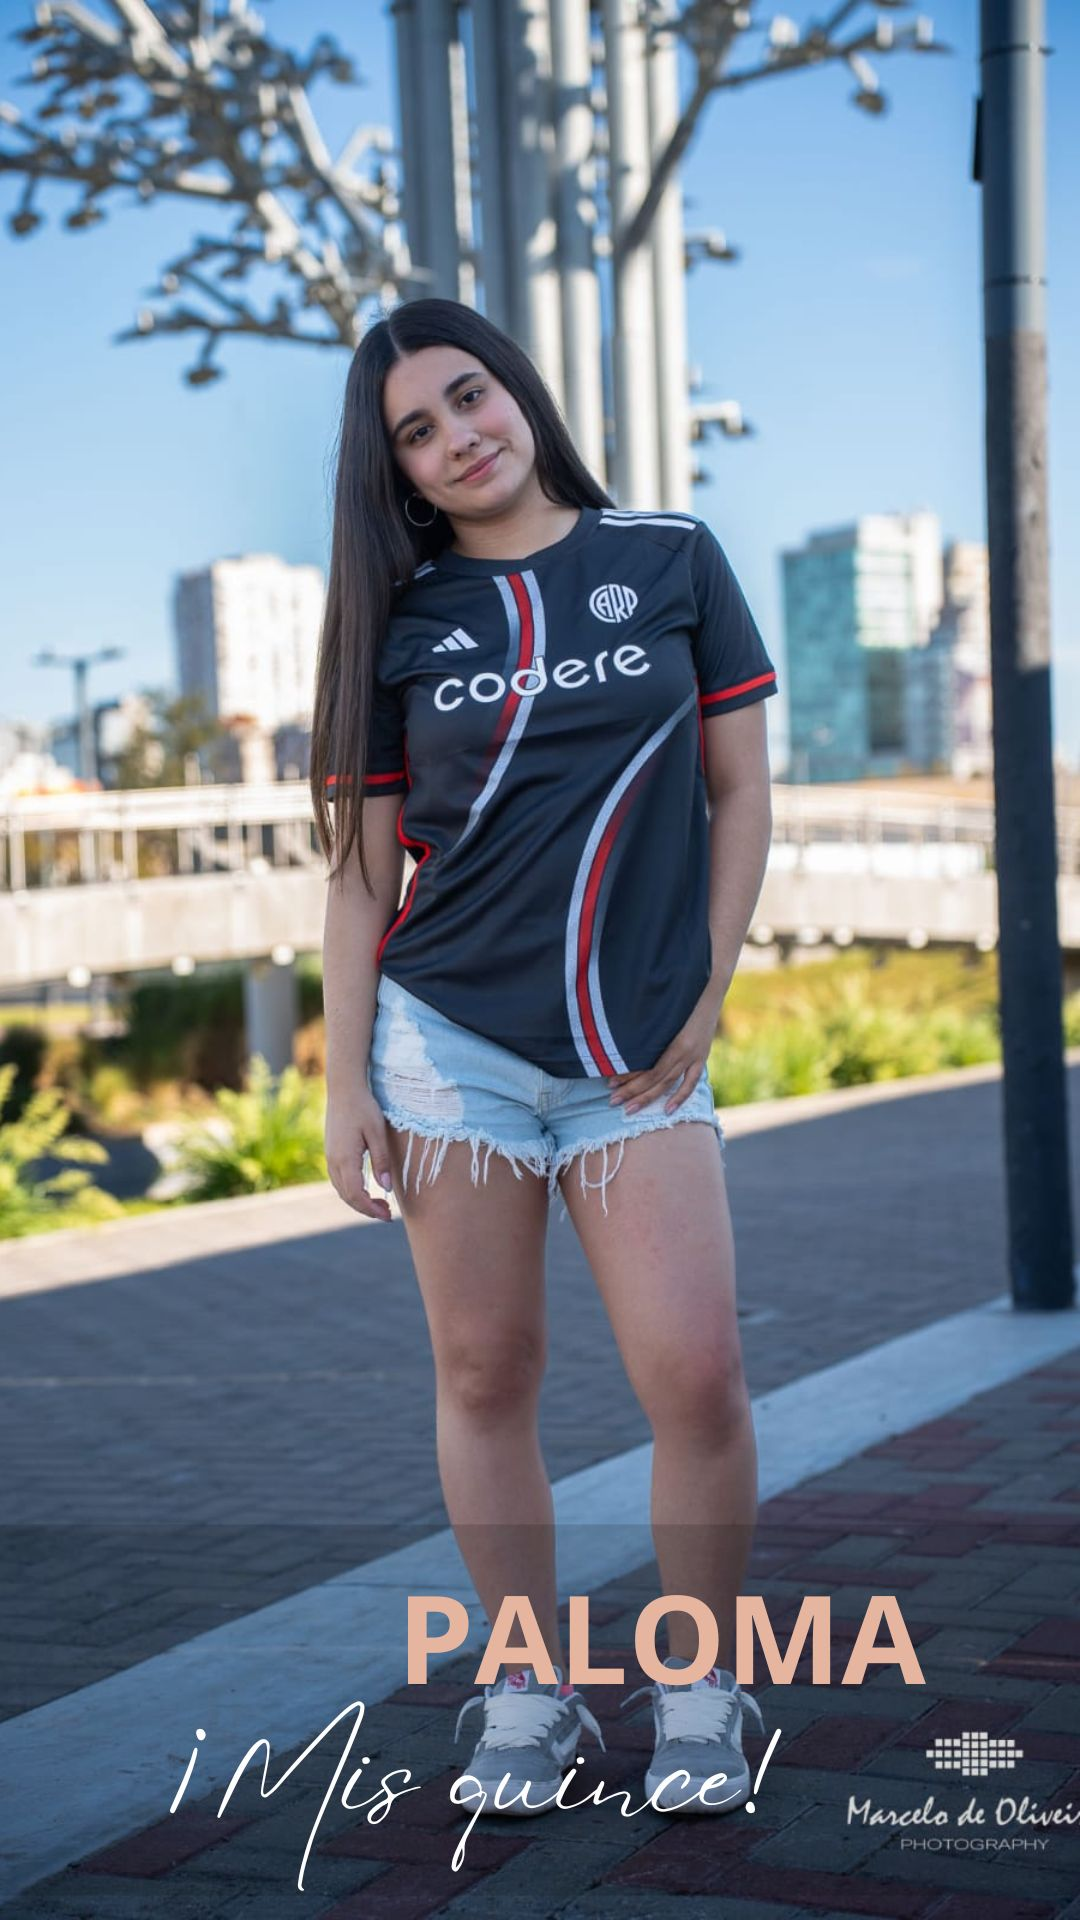
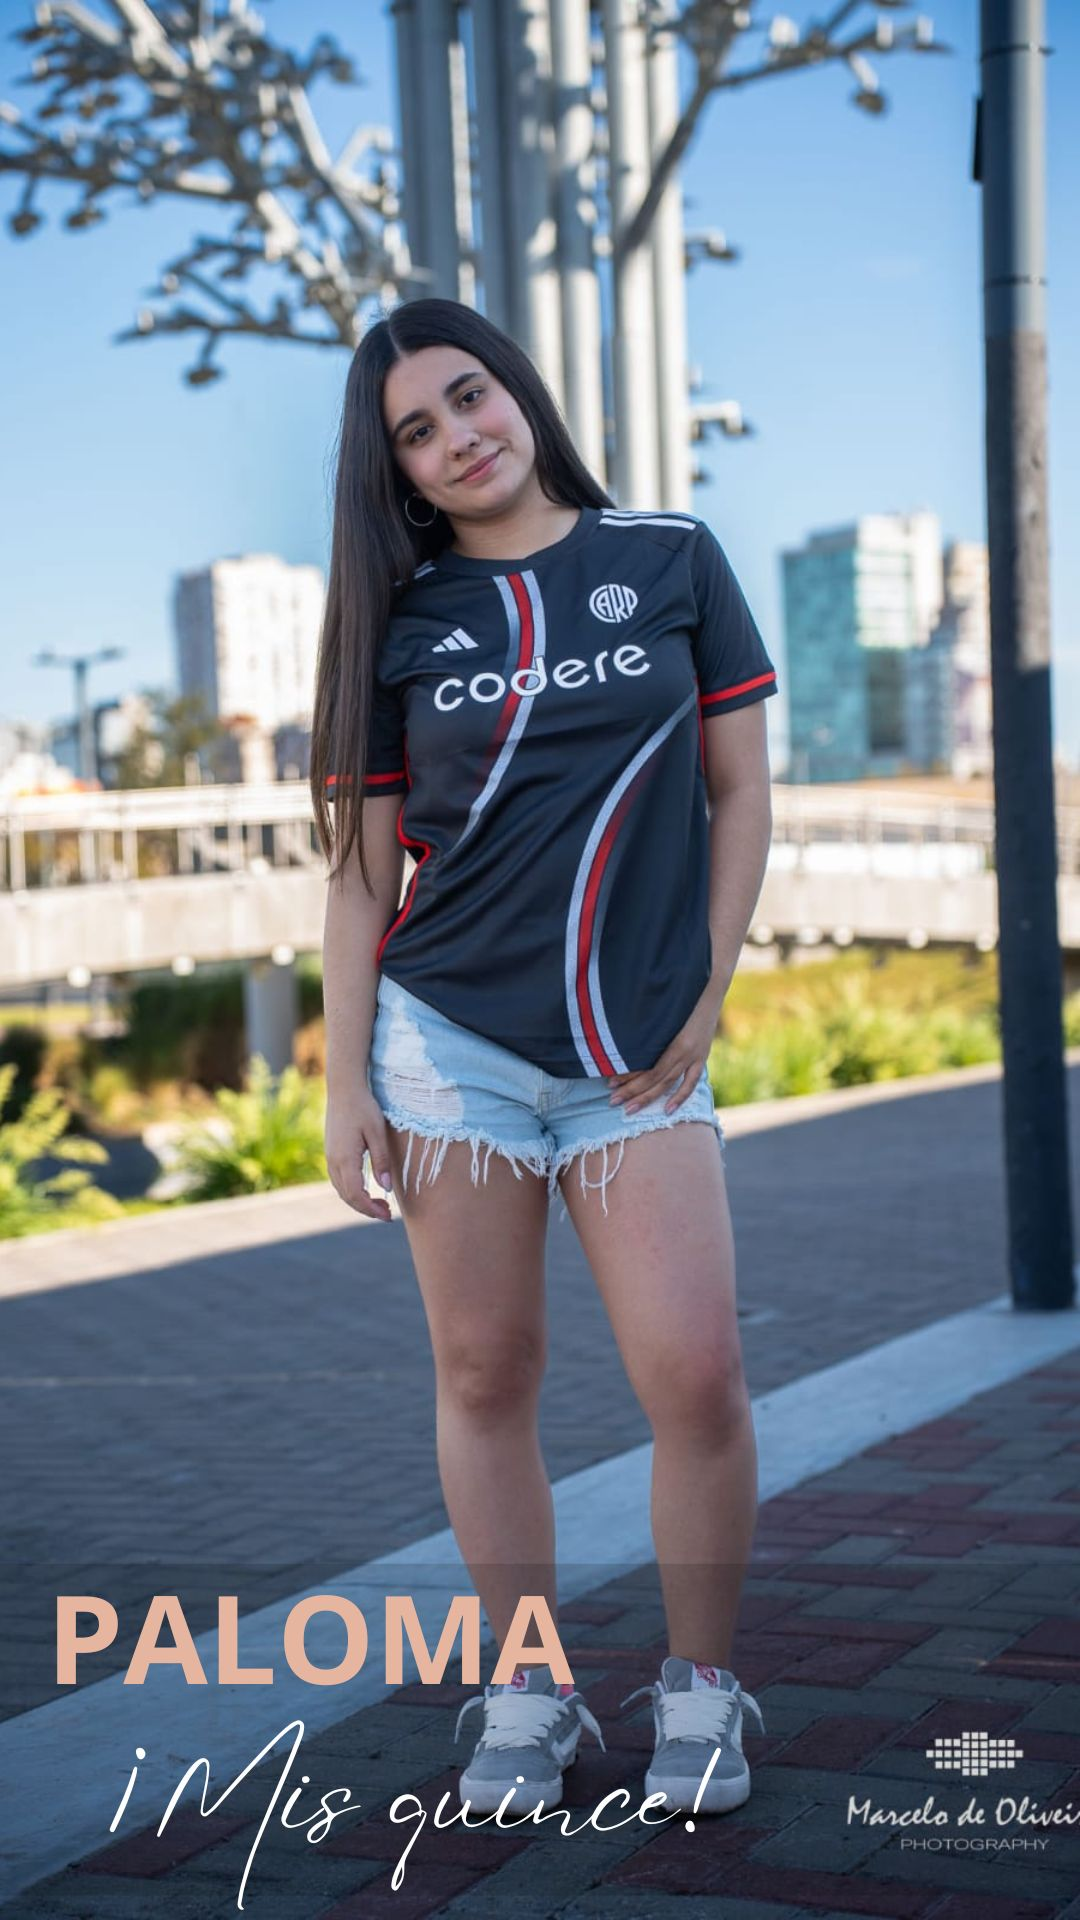
tres

diff --git a/index.html b/index.html
@@ -20,7 +20,7 @@
 <link href="https://fonts.googleapis.com/css2?family=Amatic+SC:wght@400;700&family=Bad+Script&family=Bebas+Neue&family=Covered+By+Your+Grace&family=EB+Garamond&family=Great+Vibes&family=Handlee&family=Inconsolata&family=Julius+Sans+One&family=Lobster+Two&family=Major+Mono+Display&family=PT+Sans+Narrow&family=PT+Serif&family=Passions+Conflict&family=Patrick+Hand&family=Playfair+Display&family=Pompiere&family=Rancho&family=Roboto+Condensed:wght@300&family=Sacramento&family=Satisfy&family=Sofia+Sans+Extra+Condensed:wght@100&display=swap" rel="stylesheet">
 <link href="https://fonts.googleapis.com/css2?family=Alex+Brush&family=Amatic+SC:wght@400;700&family=Bad+Script&family=Bebas+Neue&family=Covered+By+Your+Grace&family=EB+Garamond&family=Great+Vibes&family=Handlee&family=Inconsolata&family=Julius+Sans+One&family=Lobster+Two&family=Major+Mono+Display&family=PT+Sans+Narrow&family=PT+Serif&family=Passions+Conflict&family=Patrick+Hand&family=Playfair+Display&family=Pompiere&family=Rancho&family=Roboto+Condensed:wght@300&family=Sacramento&family=Satisfy&family=Sofia+Sans+Extra+Condensed:wght@100&display=swap" rel="stylesheet">
 <link href="https://cdn.jsdelivr.net/npm/bootstrap@5.3.0/dist/css/bootstrap.min.css" rel="stylesheet" integrity="sha384-9ndCyUaIbzAi2FUVXJi0CjmCapSmO7SnpJef0486qhLnuZ2cdeRhO02iuK6FUUVM" crossorigin="anonymous">
-  <title>Cumple 15 Paloma</title>
+  <title>Cumple 15 Paloma🤍</title>
 </head>
 
 <body>

diff --git a/style.css b/style.css
@@ -151,7 +151,7 @@ margin-left: 5%;
   .Frase_inicio{
     text-align: center;
     font-family: 'Alex Brush', cursive;
-         font-size: 27px;
+         font-size: 31px;
          color: #888888;
          margin-top: 30%; 
          margin: 10%;
